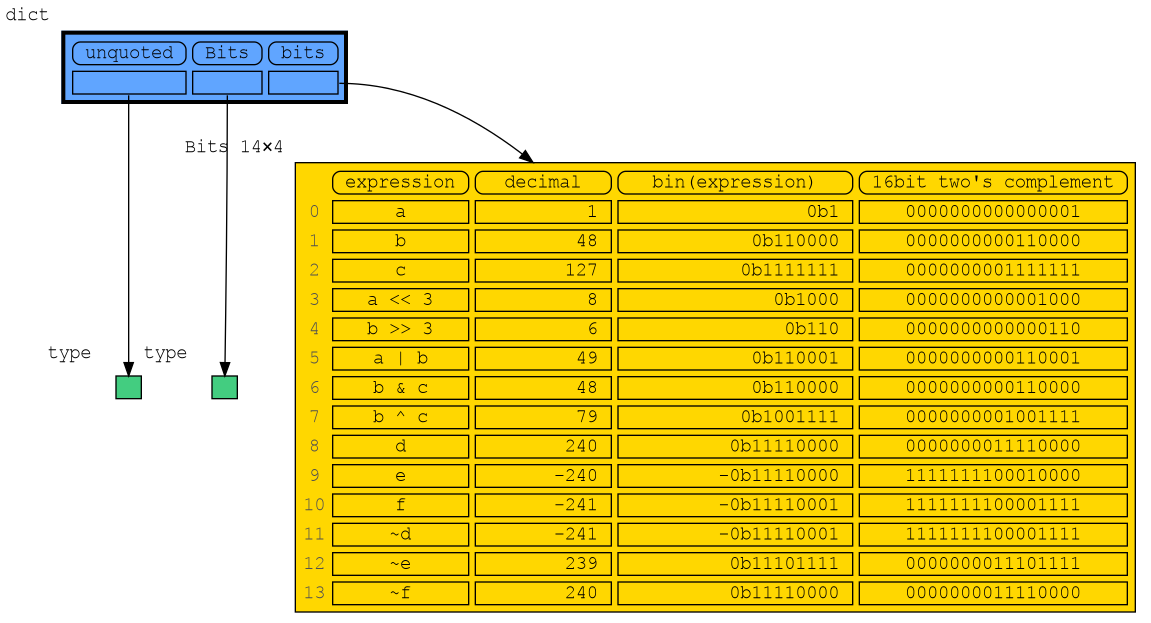
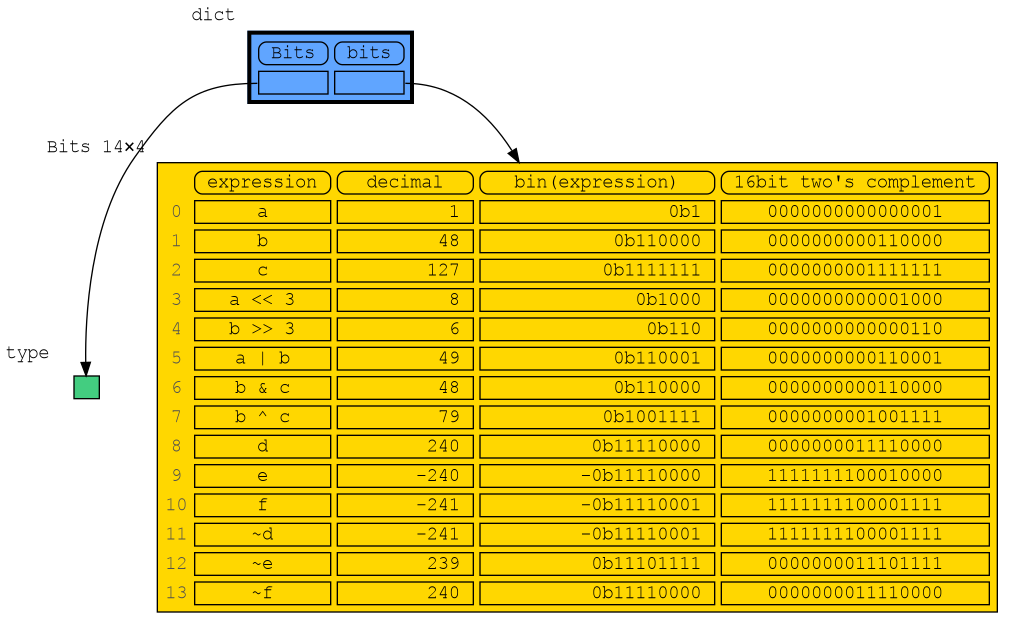
special 'str' types: unquoted_str, full_str, html_str

diff --git a/memory_graph/html_table.py b/memory_graph/html_table.py
@@ -2,9 +2,6 @@
 # Copyright (c) 2023, Bas Terwijn.
 # SPDX-License-Identifier: BSD-2-Clause
 
-from memory_graph.utils import unquoted
-from memory_graph.node_base import Node_Base 
-import memory_graph.node_base
 import memory_graph.config as config
 import memory_graph.config_helpers as config_helpers
 import memory_graph.utils as utils
@@ -18,7 +15,7 @@ def format_string(value, quote_str):
     """ Helper function to format 'value' to be shown in the graph. We escape html characters and convert newlines to <BR/> tags. """
     to_string = config_helpers.get_to_string(value)
     s = to_string(value)
-    if quote_str and isinstance(value, str):
+    if quote_str and isinstance(value, str) or isinstance(value, utils.full_str):
         s = utils.quote_string(s)
     return s
 
@@ -72,7 +69,7 @@ class HTML_Table:
             if child_id in id_to_slices:
                 self.add_reference(node, child, rounded, border, dashed)
             else:
-                self.add_value(unquoted(config.graph_cut_symbol), rounded, border)
+                self.add_value(utils.unquoted_str(config.graph_cut_symbol), rounded, border)
         else:
             self.add_value(child, rounded, border)
 
@@ -105,7 +102,7 @@ class HTML_Table:
         """ Construct the HTML table string with the 'border' and 'color' settings. """
         if self.col_count == 0 and self.row_count == 0:
             if self.is_empty:
-                self.add_value(unquoted(''), border=0)
+                self.add_value(utils.unquoted_str(''), border=0)
             return html_table_frame(self.html, border, color, spacing=0)
         return html_table_frame(self.html, border, color)
     

diff --git a/memory_graph/config_default.py b/memory_graph/config_default.py
@@ -3,7 +3,7 @@
 # SPDX-License-Identifier: BSD-2-Clause
 
 """ Sets the default configuration values for the memory graph. """
-from memory_graph.utils          import unquoted, full_str, html_str
+from memory_graph.utils          import unquoted_str, full_str, html_str
 from memory_graph.node_leaf      import Node_Leaf
 from memory_graph.node_linear    import Node_Linear
 from memory_graph.node_key_value import Node_Key_Value
@@ -42,7 +42,7 @@ def reset():
 
     """ Types that by default will be embedded in the node of their parent. """
     config.embedded_types = {
-        type(None), bool, int, float, complex, str, unquoted, html_str,
+        type(None), bool, int, float, complex, str, unquoted_str, html_str,
         types.FunctionType,
         types.MethodType,
         classmethod,
@@ -67,8 +67,8 @@ def reset():
         staticmethod: lambda data: utils.prep_str(data.__qualname__),
         type(len): lambda data: utils.prep_str(data.__qualname__),
         BaseException: lambda data: utils.prep_exception_str(utils.exception_to_string(data)),
-        unquoted: lambda data: utils.newlines_to_br(utils.html_escape(str(data))),
-        full_str: lambda data: utils.quote_string(utils.newlines_to_br(utils.html_escape(str(data)))),
+        unquoted_str: lambda data: utils.newlines_to_br(utils.html_escape(str(data))),
+        full_str: lambda data: utils.newlines_to_br(utils.html_escape(str(data))),
         html_str: lambda data: str(data),
     }
     

diff --git a/memory_graph/node_table.py b/memory_graph/node_table.py
@@ -5,7 +5,8 @@
 from memory_graph.node_base import Node_Base
 from memory_graph.sequence  import Sequence2D
 from memory_graph.list_view import List_View
-from memory_graph.utils     import unquoted
+
+import memory_graph.utils as utils
 
 class Node_Table(Node_Base):
     """
@@ -44,10 +45,10 @@ class Node_Table(Node_Base):
         col_slices = slices.get_col_slices()
 
         # use column indices for header row
-        html_table.add_value(unquoted(''), border=0)
+        html_table.add_value(utils.unquoted_str(''), border=0)
         for coli in col_slices.table_iter(children_width):
             if coli == -1:
-                html_table.add_value(unquoted(''), border=0)
+                html_table.add_value(utils.unquoted_str(''), border=0)
             else:
                 self.add_index_or_name(html_table, coli, self.col_names)
         html_table.add_new_line()
@@ -66,7 +67,7 @@ class Node_Table(Node_Base):
                 first_col = True
             elif coli == -3:
                 html_table.add_new_line()
-                html_table.add_value(unquoted(''), border=0)
+                html_table.add_value(utils.unquoted_str(''), border=0)
                 for _ in range (html_table.get_max_column()-1):
                     html_table.add_dots()
                 html_table.add_new_line()

diff --git a/memory_graph/node_linear.py b/memory_graph/node_linear.py
@@ -4,10 +4,10 @@
 
 from memory_graph.node_base import Node_Base
 from memory_graph.sequence import Sequence1D
-from memory_graph.utils import unquoted
 
 import memory_graph.config_helpers as config_helpers
 import memory_graph.config as config
+import memory_graph.utils as utils
 
 class Node_Linear(Node_Base):
     """
@@ -67,7 +67,7 @@ class Node_Linear(Node_Base):
                 html_table.add_entry(self, nodes, child, id_to_slices, dashed=slices.is_dashed(index))
                 html_table.add_new_line()
             else:
-                html_table.add_value(unquoted(''), border=0)
+                html_table.add_value(utils.unquoted_str(''), border=0)
                 html_table.add_dots()
                 html_table.add_new_line()
 
@@ -81,7 +81,7 @@ class Node_Linear(Node_Base):
                 if index>=0:
                     html_table.add_index(index)
                 else:
-                    html_table.add_value(unquoted(''), border=0)
+                    html_table.add_value(utils.unquoted_str(''), border=0)
             html_table.add_new_line()
         for index in slices.table_iter(self.children.size()):
             if index>=0:

diff --git a/images/bitwise_operators.py b/images/bitwise_operators.py
@@ -1,5 +1,4 @@
 import memory_graph as mg
-from memory_graph import unquoted
 
 class Bits(dict):
    """ Dictionary subclass that we will configure to show binary representations. """
@@ -11,7 +10,7 @@ def twos_complement(x: int, bits: int) -> str:
 
 # configure memory_graph to show binary representations of values of type Bits
 mg.config.type_to_node[Bits] = lambda x : mg.Node_Table(x,
-   [ [unquoted(k), unquoted(f'{v:>10}'), unquoted(f'{bin(v):>19}'), unquoted(twos_complement(v,16))]
+   [ [mg.unquoted_str(k), mg.unquoted_str(f'{v:>10}'), mg.unquoted_str(f'{bin(v):>19}'), mg.unquoted_str(twos_complement(v,16))]
      for k, v in x.items()],
    col_names=["expression", "decimal", "bin(expression)", "16bit two's complement"])
 mg.config.type_to_slicer[Bits] = (mg.Slicer(), mg.Slicer())  # no slicing

diff --git a/src/bitwise_operators.py b/src/bitwise_operators.py
@@ -10,7 +10,7 @@ def twos_complement(x: int, bits: int) -> str:
 
 # configure memory_graph to show binary representations of values of type Bits
 mg.config.type_to_node[Bits] = lambda x : mg.Node_Table(x,
-   [ [mg.unquoted(k), mg.unquoted(f'{v:>10}'), mg.unquoted(f'{bin(v):>19}'), mg.unquoted(twos_complement(v,16))]
+   [ [mg.unquoted_str(k), mg.unquoted_str(f'{v:>10}'), mg.unquoted_str(f'{bin(v):>19}'), mg.unquoted_str(twos_complement(v,16))]
      for k, v in x.items()],
    col_names=["expression", "decimal", "bin(expression)", "16bit two's complement"])
 mg.config.type_to_slicer[Bits] = (mg.Slicer(), mg.Slicer())  # no slicing

diff --git a/images/bin_search.py b/images/bin_search.py
@@ -20,7 +20,7 @@ def bin_search(view, value):
     if view.begin == mid:
         mg.render(mg.stack(), 'bin_search.png')
         mg.config.type_to_node[List_View] = (lambda l: mg.Node_Linear(l,
-           [v if l.begin <= i < l.end else mg.unquoted('') for i, v in enumerate(l.lst)]
+           [v if l.begin <= i < l.end else mg.unquoted_str('') for i, v in enumerate(l.lst)]
            if hasattr(l, 'end') else [])
         )
         mg.render(mg.stack(), 'bin_search_linear.png')

diff --git a/memory_graph/__init__.py b/memory_graph/__init__.py
@@ -31,7 +31,7 @@ from .node_leaf       import Node_Leaf
 from .node_linear     import Node_Linear
 from .node_key_value  import Node_Key_Value
 from .node_table      import Node_Table
-from .utils           import unquoted, html_str
+from .utils           import unquoted_str, full_str, html_str
 
 last_show_filename = None
 render_filename_count = 0

diff --git a/memory_graph/utils.py b/memory_graph/utils.py
@@ -17,7 +17,7 @@ class Base_Str():
     def __str__(self):
         return self.s
     
-class unquoted(Base_Str):
+class unquoted_str(Base_Str):
     pass
     
 class full_str(Base_Str):
